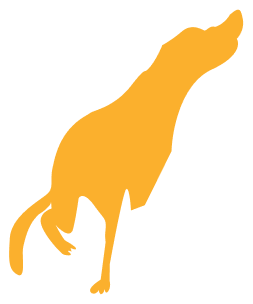
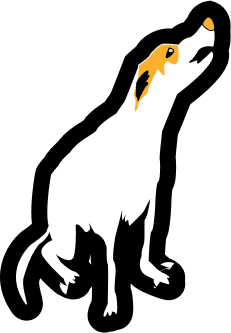
Update quiz result images and add new assets
Updated QuizManager to reference new image asset names for quiz results. Added new image files (chico.png, coitadinho.png, neguinho.png) and updated caramelo.png. Adjusted Result.swift preview to use updated indices.

diff --git a/Caramelo-Vira-Lata/Model/QuizManager.swift b/Caramelo-Vira-Lata/Model/QuizManager.swift
@@ -136,19 +136,19 @@ class QuizResultManager {
         ),
         "Neguinho": QuizResult(
             title: "VIRA LATA NEGUINHO\n(O SAMBISTA DA RODA)",
-            imageName: "Neguinho",
+            imageName: "neguinho",
             description: "Você é leal à sua comunidade e vive com paixão. Enraizado na cultura e na rotina, seu coração bate no ritmo da bateria.",
             infoText: "Assim como o vira-lata Neguinho, você é parte da comunidade. Valoriza as conexões sociais e a alegria de viver, transformando todo dia em um grande desfile."
         ),
         "Chico": QuizResult(
             title: "VIRA LATA CHICO\n(O INTELECTUAL/ATIVISTA)",
-            imageName: "caramelo2",
+            imageName: "chico",
             description: "Sua vida é dedicada a uma causa, seja ela o conhecimento ou a justiça. Você é engajado, curioso e inspira as pessoas a lutar por um mundo melhor.",
             infoText: "Você é um cão de causas. Seja no campus ou na manifestação, sua presença é um lembrete de que o aprendizado e a luta por direitos são essenciais para a sociedade."
         ),
         "Coitadolandia": QuizResult(
             title: "VIRA LATA COITADOLANDIA\n(O INDEFINIDO)",
-            imageName: "Coitadolandia",
+            imageName: "coitadinho",
             description: "Hmm, parece que você ainda está se encontrando. Suas respostas ficaram divididas demais! Tente de novo e descubra sua verdadeira vocação vira-lata!",
             infoText: "Você é um mistério, um pouco de tudo e nada ao mesmo tempo. A vida na Coitadolandia é temporária. Encontre seu propósito e volte para o quiz!"
         )

diff --git a/Caramelo-Vira-Lata/Views/Result.swift b/Caramelo-Vira-Lata/Views/Result.swift
@@ -318,7 +318,7 @@ class InfoSheetViewController: UIViewController {
 }
 
 #Preview {
-    let viewController = ResultViewController(selectedOptionIndices: [0, 1, 2])
+    let viewController = ResultViewController(selectedOptionIndices: [0, 5, 2])
     viewController.loadViewIfNeeded()
     return viewController
 }
